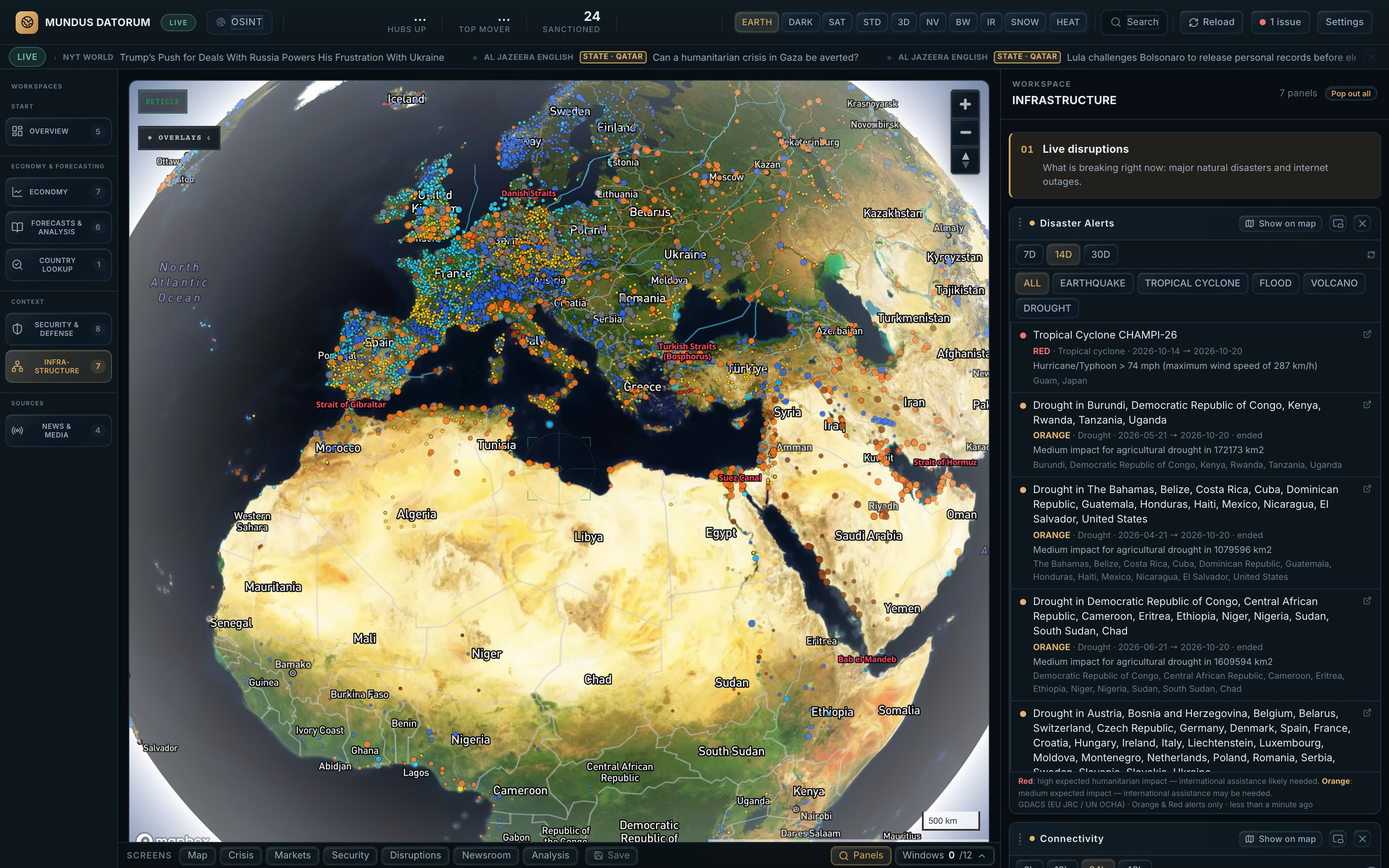
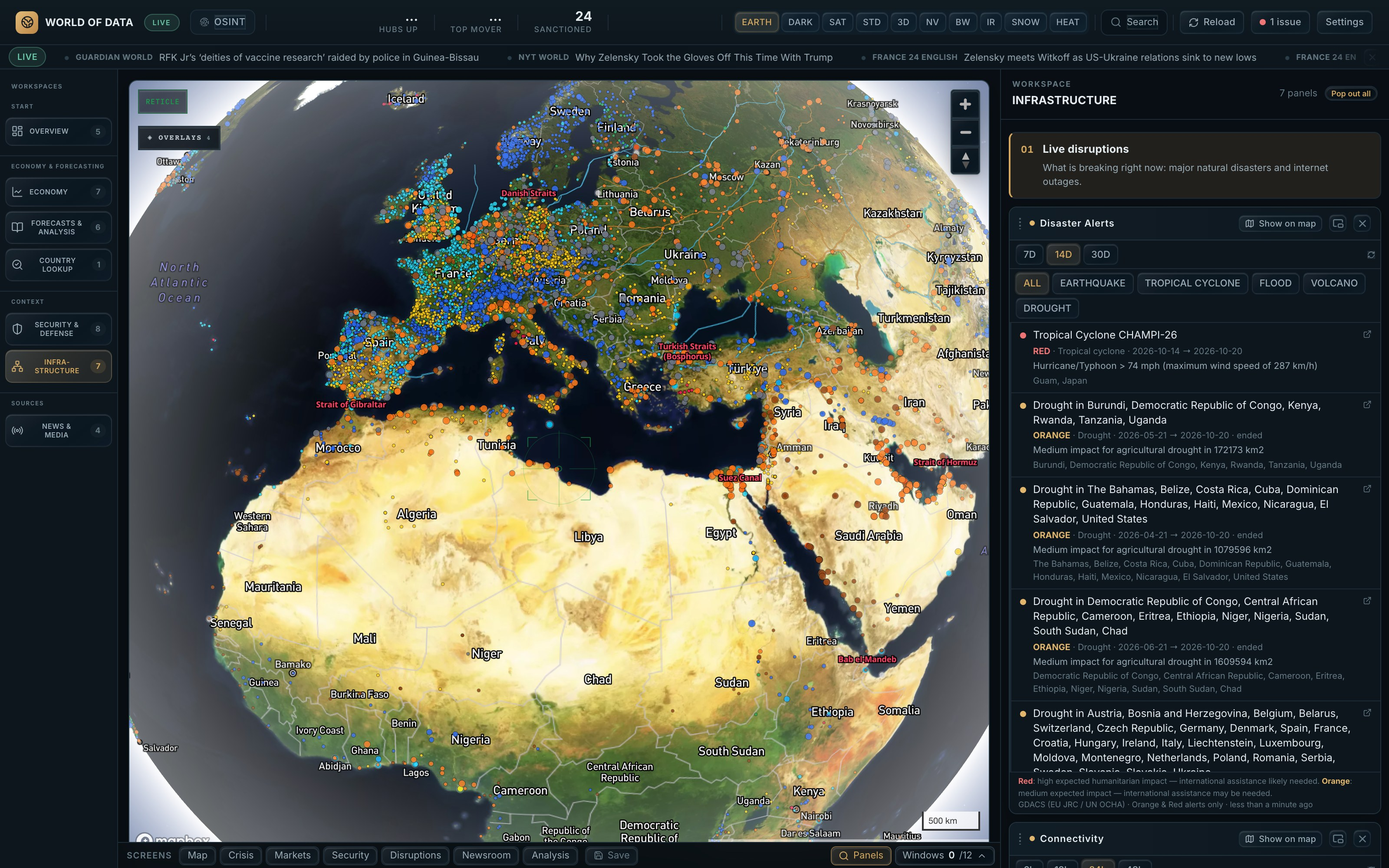
README: retake screenshots with the World of Data name; add backtest, correlation matrix, Okun and test-suite shots, an architecture diagram, and move forecasts to the top
Also corrects two stale facts: the analyst gets up to four data rounds (not three), and the suite has
1,700+ tests (not ~1,100).

diff --git a/README.md b/README.md
@@ -6,6 +6,71 @@ A monitoring and analysis system for macroeconomic, political and industrial dat
 
 ![Satellite globe in the Economy workspace with live exchange tags (TSX, NASDAQ, LSE, XETRA) and the Markets panel's regional equity ETF quotes](docs/screenshots/markets-globe.jpg)
 
+## Forecasts
+
+Computed in the browser, each with the backtest that decides whether it is shown. Statistical projections, not AI output.
+
+![Next week's US natural-gas storage change: reported changes against the model's forecasts made a week earlier, with its 80% range, the forecast and the backtest verdict](docs/screenshots/gas-storage-forecast.jpg)
+
+**Gas storage, next week.** The five-year seasonal norm plus a share of last week's departure from it, refit every week on earlier data only. Over 561 out-of-sample weekly forecasts (2016–2026) its average miss was 29.3 Bcf against 30.9 Bcf for the seasonal norm (Diebold–Mariano with a 52-week HAC correction, p = 0.004), it beat the norm in both 2016–2020 and 2021–2026, and its 80% range held 81.4% of outcomes. A 5% gain, shown as one: weather is left out, and market consensus estimates are not compared.
+
+![Predictions panel, United States: AR(2) backtest error 1.44 pp against 1.78 pp for "no change" over 50 one-year-ahead folds, with the Diebold–Mariano verdict that the difference is not significant](docs/screenshots/predictions-backtest.jpg)
+
+**GDP, inflation and unemployment for 217 economies.** The headline model for each series was picked by a rolling-origin backtest across every World Bank economy: AR(2) for GDP growth (8% below "no change" one year ahead on average; the IMF still beats it in 142 of 185 economies), "no change" for inflation and unemployment, where no model tested beat it. Intervals were calibrated on forecasts made before 2010, and the label shows what they held since. Each card also backtests the model on the selected country and says when it doesn't win: for the US, AR(2)'s one-year error was 1.44 pp against 1.78 pp for "no change", not a significant difference (p = 0.09).
+
+| | |
+|---|---|
+| ![Predictions panel for the United States: real GDP growth since 2000 with a three-year AR(2) forecast, its interval and the naive baseline](docs/screenshots/predictions-gdp.jpg) | ![EIA weekly commercial crude and motor gasoline stocks over the last year against their five-year average and range](docs/screenshots/energy-inventories.jpg) |
+| **The forecast card**: history, the AR(2) path, the naive baseline and an interval labelled with the coverage it actually achieved | **Energy inventories**: EIA weekly crude, gasoline, distillate, SPR and gas stocks against the same week's five-year average and range, the data the gas forecast is built on |
+
+## How it works
+
+```mermaid
+flowchart LR
+  UI["Browser: panels, 3D globe, local statistics (forecasts, backtests, correlations)"]
+  AG["Analyst loop, in the browser"]
+  FREE["Keyless sources: World Bank, Our World in Data, USGS, GDACS, ..."]
+  PX["/api functions: keys stay server-side"]
+  KEYED["Finnhub, EIA, NYT, ACLED, OpenSky, FIRMS, Cloudflare Radar, RSS"]
+  LLM["OpenRouter: language model"]
+  UI -->|"direct, no key"| FREE
+  UI --> PX --> KEYED
+  AG -->|"tools: the same fetches the panels use"| UI
+  AG -->|"/api/openrouter"| LLM
+```
+
+The analyst never computes or plots a number itself:
+
+```mermaid
+flowchart LR
+  Q["Question"] --> M["Model writes DATA requests"]
+  M --> T["Browser runs each tool against the same services the panels use"]
+  T --> R["Results R1, R2, ... with their source"]
+  R -->|"up to 4 rounds"| M
+  R --> A["Answer cites R ids; CHART:R2 is drawn by the panel from R2's data"]
+```
+
+## An AI that reads the analytics
+
+The analyst (any OpenRouter model, free by default) gets the comparison currently on screen as computed numbers, not as text to recall. I asked **Claude Sonnet 5.5** a data question:
+
+> *Which countries spend far more on defence than their wealth predicts, and what explains the top two?*
+
+- **The data**: ρ = 0.16, wealth predicts almost nothing. Ukraine is +10.7 σ above the trend.
+- **The answer**: every figure matched the panel (Ukraine 34.5% vs 2.2% expected, Israel 8.8% vs 2.5%, Algeria 8.0%…). It said the wealth link is negligible and labelled its explanations "my context, not from the panel".
+
+Those were the World Bank's 2024 values as published then. They have since been revised (as of 2026-10-15: Ukraine 2024 34.0%, Israel 8.5%), and 2025 values now exist (Ukraine 39.6%), so the live panel shows different numbers.
+
+It also drove the map (flew to Ukraine, switched layers on). One question, one run per model: an illustration, not a benchmark.
+
+### It can investigate on its own
+
+Since 2026-10-16 the analyst does more than read the summary it is given. It can query every dataset the dashboard holds: live conflict events, internet outages (IODA alerts, plus Cloudflare Radar's verified outages with their stated cause), disaster alerts (GDACS), earthquakes (USGS), wildfires (FIRMS), GPS interference, headlines, market quotes, any World Bank series for any country, cross-country rankings, trade, energy, sanctions, military, resources, chokepoints, ports and UNHCR. It writes a request line (`[DATA:series|Germany,France|GDP growth]`). The browser runs the query against the same free services the panels use and returns the result, with an id (R1, R2…), for the model to cite. A single question can take up to four rounds of requests. Statistics and forecasts are computed locally, never by the model. The forecast tool uses the Predictions panel's model choice (`utils/forecastPolicy.ts`) and reports AR(2)'s out-of-sample backtest against a naive baseline on that country, so a forecast that doesn't beat "no change" is labelled as such.
+
+Charts follow the same rule. The model writes `[CHART:R2]` to place a chart, and the panel draws it from that result's data, so the model can't supply or change a plotted value. Every answer shows an **investigation trail** listing each query, its source, success or failure, and the exact text the model received. Clicking a reference such as (R2) in the answer opens that evidence.
+
+**Not measured:** whether the tool-using analyst is more accurate, better grounded or more useful than the single-shot version.
+
 ## 30 overlays in 5 categories
 
 ![Europe, North Africa and the Middle East with the infrastructure overlays on: energy sites, pipelines, ports and chokepoints from Gibraltar and the Bosphorus to Suez, Bab el-Mandeb and Hormuz](docs/screenshots/infrastructure-europe.jpg)
@@ -35,45 +100,19 @@ Pick any two of **50 country indicators** (World Bank, Our World in Data, Ember)
 | ![Globe coloured red and blue by how far each country's life expectancy is above or below the trend predicted by GDP per capita, with the scatter in the dock](docs/screenshots/country-analytics-map.jpg) | ![Globe turned to Asia, every country shaded by GDP in US dollars from the Economy panel, with the panel's country list in the dock](docs/screenshots/economy-gdp-map.jpg) |
 | **Wealth vs health**, 214 countries, ρ = 0.86. Map in *Vs trend* mode: red lives longer than income predicts, blue shorter | **Economy data on the map**: the Economy panel's *Show on map* shades 214 countries by GDP (US$); *Vs trend* switches to the residual view |
 
-Also: a 12×12 Spearman matrix of what moves together (click a cell to plot that pair), and ~120,000 NASA FIRMS wildfire detections binned into 3D hexagons in the browser, plus earthquakes with a Gutenberg–Richter fit.
+![Spearman rank correlation matrix of twelve country indicators, blue negative and red positive, with the value printed in each cell](docs/screenshots/correlation-matrix.jpg)
 
-## Forecasts
+**What moves together**: a 12×12 Spearman matrix over the countries each pair has in common; click a cell to plot that pair. GDP per capita goes with life expectancy (ρ = 0.86), internet use (0.83) and energy use (0.86), and against resource rents (−0.52).
 
-Computed in the browser, each with the backtest that decides whether it is shown. Statistical projections, not AI output.
-
-![Predictions panel for the United States: real GDP growth since 2000 with a three-year AR(2) forecast, its interval, the naive baseline, and the backtest results below](docs/screenshots/predictions-gdp.jpg)
-
-**GDP, inflation and unemployment for 217 economies.** The headline model for each series was picked by a rolling-origin backtest across every World Bank economy: AR(2) for GDP growth (8% below "no change" one year ahead on average; the IMF still beats it in 142 of 185 economies), "no change" for inflation and unemployment, where no model tested beat it. Intervals were calibrated on forecasts made before 2010, and the label shows what they held since. Each card also backtests the model on the selected country: for the US, AR(2)'s one-year error was 1.44 pp against 1.78 pp for "no change", not a significant difference (p = 0.09).
-
-| | |
-|---|---|
-| ![Next week's US natural-gas storage change: reported changes against the model's forecasts made a week earlier, with its 80% range, the forecast and the backtest verdict](docs/screenshots/gas-storage-forecast.jpg) | ![EIA weekly commercial crude and motor gasoline stocks over the last year against their five-year average and range](docs/screenshots/energy-inventories.jpg) |
-| **Gas storage, next week**: the five-year seasonal norm plus a share of last week's departure from it. Over 561 weekly forecasts (2016–2026) its average miss was 29.3 Bcf against 30.9 Bcf for the seasonal norm (HAC Diebold–Mariano p = 0.004), and its 80% range held 81.4% of outcomes | **Energy inventories**: EIA weekly crude, gasoline, distillate, SPR and gas stocks against the same week's five-year average and range, the data the gas forecast is built on |
-
-## An AI that reads the analytics
-
-The analyst (any OpenRouter model, free by default) gets the comparison currently on screen as computed numbers, not as text to recall. I asked **Claude Sonnet 5.5** a data question:
-
-> *Which countries spend far more on defence than their wealth predicts, and what explains the top two?*
-
-- **The data**: ρ = 0.16, wealth predicts almost nothing. Ukraine is +10.7 σ above the trend.
-- **The answer**: every figure matched the panel (Ukraine 34.5% vs 2.2% expected, Israel 8.8% vs 2.5%, Algeria 8.0%…). It said the wealth link is negligible and labelled its explanations "my context, not from the panel".
-
-Those were the World Bank's 2024 values as published then. They have since been revised (as of 2026-10-15: Ukraine 2024 34.0%, Israel 8.5%), and 2025 values now exist (Ukraine 39.6%), so the live panel shows different numbers.
-
-It also drove the map (flew to Ukraine, switched layers on). One question, one run per model: an illustration, not a benchmark.
-
-### It can investigate on its own
-
-Since 2026-10-16 the analyst does more than read the summary it is given. It can query every dataset the dashboard holds: live conflict events, internet outages (IODA alerts, plus Cloudflare Radar's verified outages with their stated cause), disaster alerts (GDACS), earthquakes (USGS), wildfires (FIRMS), GPS interference, headlines, market quotes, any World Bank series for any country, cross-country rankings, trade, energy, sanctions, military, resources, chokepoints, ports and UNHCR. It writes a request line (`[DATA:series|Germany,France|GDP growth]`). The browser runs the query against the same free services the panels use and returns the result, with an id (R1, R2…), for the model to cite. A single question can take up to three rounds of requests. Statistics and forecasts are computed locally, never by the model. The forecast tool uses the Predictions panel's model choice (`utils/forecastPolicy.ts`) and reports AR(2)'s out-of-sample backtest against a naive baseline on that country, so a forecast that doesn't beat "no change" is labelled as such.
-
-Charts follow the same rule. The model writes `[CHART:R2]` to place a chart, and the panel draws it from that result's data, so the model can't supply or change a plotted value. Every answer shows an **investigation trail** listing each query, its source, success or failure, and the exact text the model received. Clicking a reference such as (R2) in the answer opens that evidence.
-
-**Not measured:** whether the tool-using analyst is more accurate, better grounded or more useful than the single-shot version.
+Also: ~120,000 NASA FIRMS wildfire detections binned into 3D hexagons in the browser, plus earthquakes with a Gutenberg–Richter fit.
 
 ## Country Lookup
 
 One country's full World Bank record since 1960 by category, ECB/Eurostat/BIS series for Europe, and a single-country analysis (trend tests, cycle, Okun, Phillips, debt dynamics, anomalies), each with method, n and caveats.
+
+![Germany in Country Lookup: Okun's law scatter with its fitted line, the inflation history with a detected regime shift in 1984, and the method and caveats under each](docs/screenshots/country-lookup-okun.jpg)
+
+Germany: each extra 1% of real growth went with unemployment falling about 0.16 pp (95% CI −0.26 to −0.05, R² 0.30, n = 25). Average inflation shifted in 1984, from 3.9% to 2.0% (Quandt–Andrews sup-F test), and the Phillips curve shows no reliable trade-off (p = 0.95).
 
 Not a decision tool: correlation is not causation, and many series are years old for some countries.
 
@@ -83,8 +122,12 @@ Not a decision tool: correlation is not causation, and many series are years old
 npm install
 cp .env.example .env   # only VITE_MAPBOX_TOKEN is required; every other key is optional
 npm run dev            # Vite + the small /api functions that keep secrets out of the bundle
-npm test               # ~1,100 tests, fully offline
+npm test               # 1,700+ tests, fully offline
 ```
+
+![Terminal: the full test suite passing offline, 1716 tests in 114 files in under 10 seconds](docs/screenshots/tests-offline.jpg)
+
+The suite is hermetic: any network call a test doesn't mock fails, so it runs offline and in CI with no keys.
 
 Keys that only the owner can register (EIA) are tracked in [`TODO.md`](TODO.md).
 
